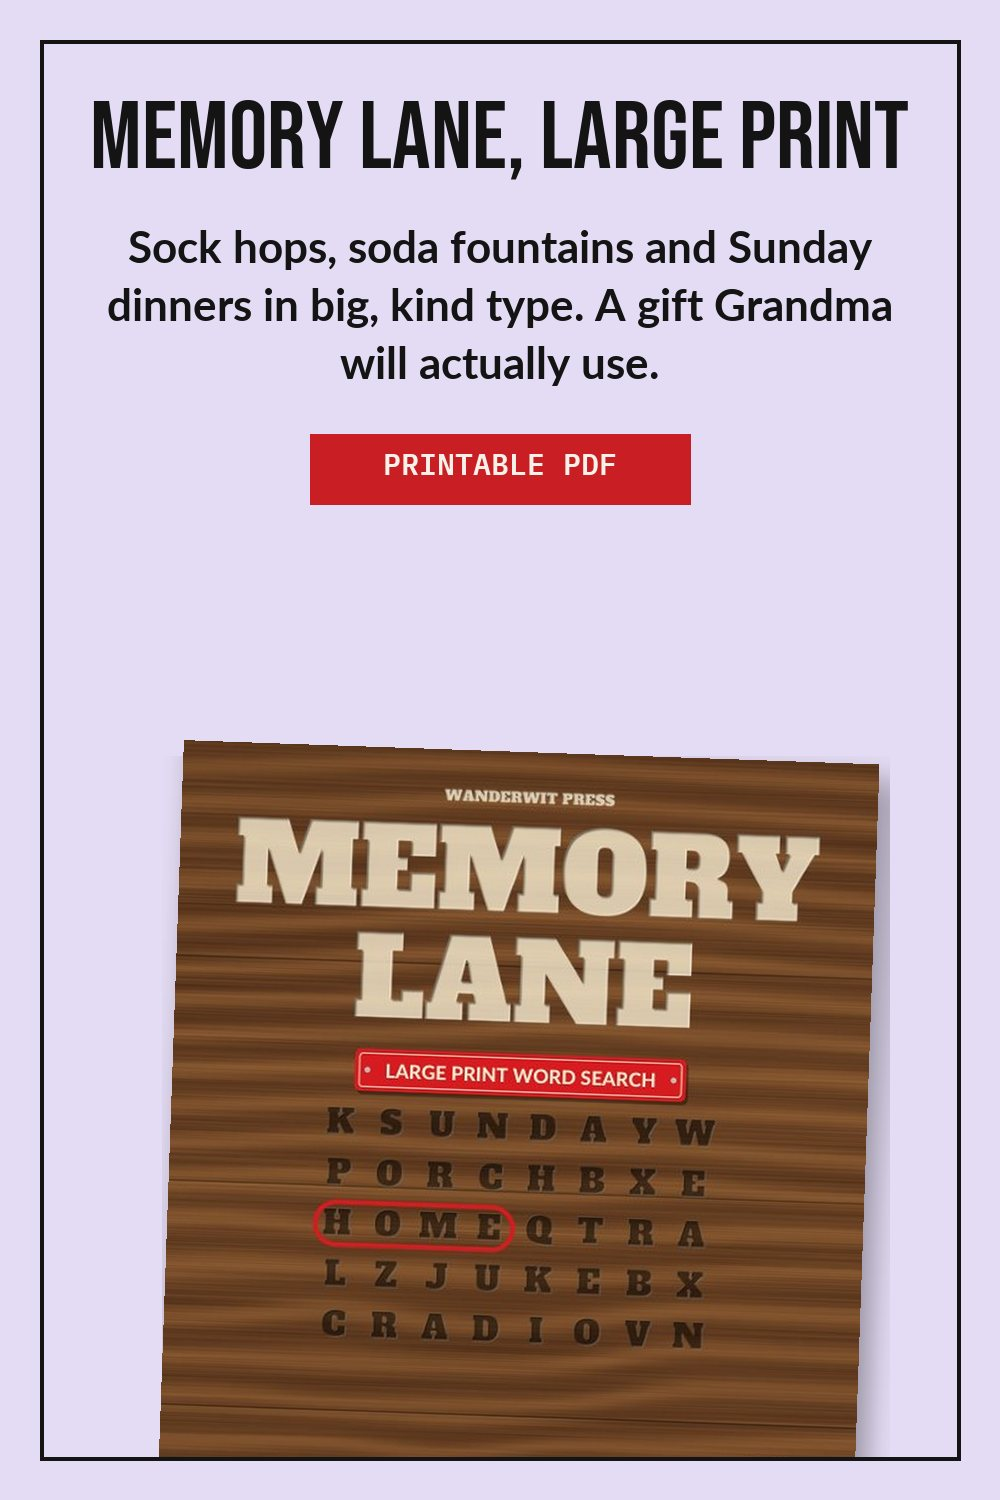
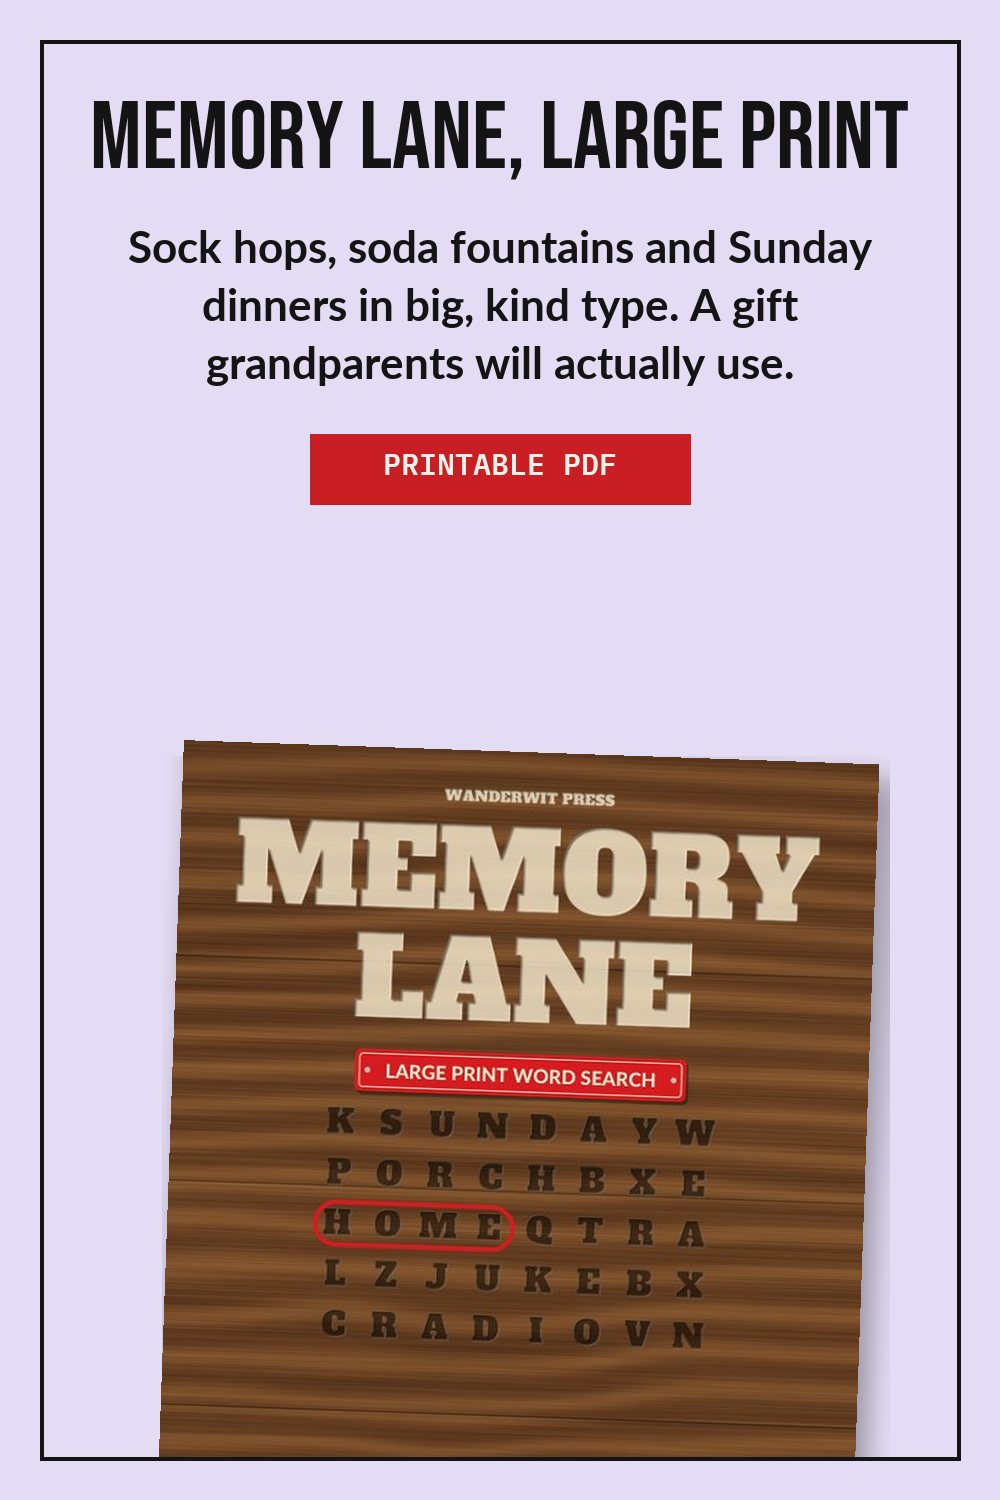
Make the site copy inclusive and add the Everything Bundle
The tagline, meta description and hero no longer address only women, and
they now describe the current catalog (planners, party games, budget
sheets, puzzles). The look and colors are unchanged.

Adds the $29.99 Everything Bundle (110 printables and spreadsheets,
Etsy 4604615285) as a best-value card, plus its three pin images.

Changed region(s): [[0.093, 0.184, 0.899, 0.276]]

diff --git a/index.html b/index.html
@@ -4,10 +4,10 @@
   <meta charset="utf-8">
   <meta name="viewport" content="width=device-width, initial-scale=1">
   <meta name="p:domain_verify" content="be809e9b2cc72f6bb1ba43bef9f699d4"/>
-  <title>Wanderwit Press · Brain Candy for Girls Who Annotate</title>
-  <meta name="description" content="Printable puzzles, large print word searches, mandala coloring, 369 manifestation journals and National Parks maps. Instant PDF downloads from Wanderwit Press.">
-  <meta property="og:title" content="Wanderwit Press · brain candy for girls who annotate">
-  <meta property="og:description" content="Puzzles, journals and maps for your cozy era, your road trip era and your manifesting era. Instant download.">
+  <title>Wanderwit Press · Printables for Planners, Party Hosts and Puzzle People</title>
+  <meta name="description" content="150+ printable planners, party and holiday games, budget spreadsheets, kids activity packs, puzzles and wall art. Instant PDF and Excel downloads from Wanderwit Press.">
+  <meta property="og:title" content="Wanderwit Press · printables for planners, party hosts and puzzle people">
+  <meta property="og:description" content="Planners, party games, budget sheets and puzzles for game night, the holidays and every fresh start. Instant download.">
   <meta property="og:image" content="assets/img/parks-map.jpg">
   <meta name="theme-color" content="#17141d">
   <link rel="icon" href="assets/favicon.svg" type="image/svg+xml">
@@ -45,16 +45,16 @@
   <section class="hero">
     <div class="wrap hero-grid">
       <div class="intro">
-        <span class="chapter"><b>[ch. 01]</b> hello, book girl</span>
-        <h1>Brain candy for girls who <em><span class="hl">annotate.</span></em></h1>
-        <p class="lede">Puzzles, journals and maps for your cozy era, your road trip era and your manifesting era. Download it today, print it tonight, tab it forever.</p>
+        <span class="chapter"><b>[ch. 01]</b> hello, fellow planner</span>
+        <h1>Brain candy for people who <em><span class="hl">plan ahead.</span></em></h1>
+        <p class="lede">Planners, party games, budget sheets and puzzles for game night, the holidays, the road trip and every fresh start. Download it today, print it tonight, use it forever.</p>
         <div class="hero-actions">
           <a class="btn btn-dark" href="#shop">shop the printables <span class="arrow">→</span></a>
           <a class="btn btn-line" href="#era">which era are you?</a>
         </div>
         <span class="note"><svg viewBox="0 0 60 40" fill="none" stroke="currentColor" stroke-width="2" stroke-linecap="round"><path d="M56 30C42 32 20 26 10 8"/><path d="M8 18 10 8l10 3"/></svg>yes, the answer keys are included</span>
         <div class="stats">
-          <div><strong>14</strong><span>original books</span></div>
+          <div><strong>150+</strong><span>printables</span></div>
           <div><strong>1,000+</strong><span>printable pages</span></div>
           <div><strong>0</strong><span>backwards words*</span></div>
         </div>
@@ -62,7 +62,7 @@
       <div class="collage intro intro-2" aria-hidden="true">
         <figure class="polaroid p1"><span class="tape pink"></span><img src="assets/img/cover-mandala-calm-coloring-vol2.jpg" alt=""><figcaption>cozy era</figcaption></figure>
         <figure class="polaroid p2"><span class="tape"></span><img src="assets/img/cover-manifest-it-369.jpg" alt=""><figcaption>manifesting ✦</figcaption></figure>
-        <figure class="polaroid p3"><span class="tape sage"></span><img src="assets/img/cover-national-parks-passport-journal.jpg" alt=""><figcaption>trail girl</figcaption></figure>
+        <figure class="polaroid p3"><span class="tape sage"></span><img src="assets/img/cover-national-parks-passport-journal.jpg" alt=""><figcaption>trail era</figcaption></figure>
         <div class="sticky"><small>currently obsessed:</small>100 mandalas + a playlist + gel pens</div>
         <svg class="spin" viewBox="0 0 120 120"><defs><path id="circ" d="M60,60 m-46,0 a46,46 0 1,1 92,0 a46,46 0 1,1 -92,0"/></defs><text><textPath href="#circ">instant download • print tonight • </textPath></text></svg>
         <span class="spin-dot">↓</span>
@@ -70,7 +70,7 @@
     </div>
   </section>
 
-  <div class="ribbon" aria-hidden="true"><div class="track"><span>puzzle girl summer</span><span>cozy reading nook</span><span>manifesting era</span><span>large print for grandma</span><span>63 parks bucket list</span><span>annotate everything</span><span>puzzle girl summer</span><span>cozy reading nook</span><span>manifesting era</span><span>large print for grandma</span><span>63 parks bucket list</span><span>annotate everything</span><span>puzzle girl summer</span><span>cozy reading nook</span><span>manifesting era</span><span>large print for grandma</span><span>63 parks bucket list</span><span>annotate everything</span><span>puzzle girl summer</span><span>cozy reading nook</span><span>manifesting era</span><span>large print for grandma</span><span>63 parks bucket list</span><span>annotate everything</span></div></div>
+  <div class="ribbon" aria-hidden="true"><div class="track"><span>puzzle people</span><span>party hosts</span><span>planner nerds</span><span>large print for grandparents</span><span>game night crew</span><span>budget glow-up</span><span>63 parks bucket list</span><span>annotate everything</span><span>puzzle people</span><span>party hosts</span><span>planner nerds</span><span>large print for grandparents</span><span>game night crew</span><span>budget glow-up</span><span>63 parks bucket list</span><span>annotate everything</span><span>puzzle people</span><span>party hosts</span><span>planner nerds</span><span>large print for grandparents</span><span>game night crew</span><span>budget glow-up</span><span>63 parks bucket list</span><span>annotate everything</span><span>puzzle people</span><span>party hosts</span><span>planner nerds</span><span>large print for grandparents</span><span>game night crew</span><span>budget glow-up</span><span>63 parks bucket list</span><span>annotate everything</span></div></div>
 
   <section id="era">
     <div class="wrap">
@@ -87,7 +87,7 @@
             <div class="opts">
               <button class="opt" data-q="who" data-a="me" aria-pressed="false">me, obviously</button>
               <button class="opt" data-q="who" data-a="kids" aria-pressed="false">my backseat gremlins</button>
-              <button class="opt" data-q="who" data-a="grandma" aria-pressed="false">my grandma</button>
+              <button class="opt" data-q="who" data-a="grandma" aria-pressed="false">my grandparents</button>
               <button class="opt" data-q="who" data-a="gift" aria-pressed="false">a bestie gift</button>
             </div>
           </div>
@@ -199,7 +199,7 @@
         <div class="body">
           <span class="meta">2 books · 80 puzzles · no backwards words</span>
           <h3>Memory Lane, Large Print</h3>
-          <p class="desc">Sock hops, soda fountains and Sunday dinners in big, kind type. A gift Grandma will actually use.</p>
+          <p class="desc">Sock hops, soda fountains and Sunday dinners in big, kind type. A gift grandparents will actually use.</p>
           <div class="buy">
             <span class="price">$8.99<small>usd</small></span>
             <a class="btn btn-dark btn-sm" href="https://www.etsy.com/listing/4603287293" target="_blank" rel="noopener">get it <span class="arrow">↗</span></a>
@@ -355,10 +355,22 @@
         <div class="body">
           <span class="meta">made to order · 24 hr · choose your edition</span>
           <h3>The Personalized 369 Journal</h3>
-          <p class="desc">Her name on the cover and title page, made within 24 hours. The gift that gets a reaction video.</p>
+          <p class="desc">Their name on the cover and title page, made within 24 hours. The gift that gets a reaction video.</p>
           <div class="buy">
             <span class="price">$12.99<small>usd</small></span>
             <a class="btn btn-dark btn-sm" href="https://www.etsy.com/listing/4603314034" target="_blank" rel="noopener">get it <span class="arrow">↗</span></a>
+          </div>
+        </div>
+      </article>
+      <article class="product reveal" data-collection="plan" id="everything-bundle">
+        <div class="art duo" style="--tint:#efe7d6" role="img" aria-label="The Everything Bundle cover"><img src="assets/img/bundle-everything-bundle-1.jpg" alt="" loading="lazy" width="560" height="840"><img src="assets/img/bundle-everything-bundle-2.jpg" alt="" loading="lazy" width="560" height="840"></div><span class="flag">best value</span>
+        <div class="body">
+          <span class="meta">110 printables + sheets · save 95%</span>
+          <h3>The Everything Bundle</h3>
+          <p class="desc">Every printable and spreadsheet in the shop: holidays, parties, planners, kids and budgets, in 5 ZIPs.</p>
+          <div class="buy">
+            <span class="price">$29.99<small>usd</small></span>
+            <a class="btn btn-dark btn-sm" href="https://www.etsy.com/listing/4604615285" target="_blank" rel="noopener">get it <span class="arrow">↗</span></a>
           </div>
         </div>
       </article>
@@ -1994,7 +2006,7 @@
   <section id="shelf" style="padding-top:30px">
     <div class="wrap">
       <div class="head reveal">
-        <div><span class="chapter"><b>[ch. 06]</b> for the physical-copy girlies</span><h2>Paperbacks, <em>coming soon</em></h2></div>
+        <div><span class="chapter"><b>[ch. 06]</b> for the physical-copy crowd</span><h2>Paperbacks, <em>coming soon</em></h2></div>
         <p>Every series is headed to Amazon in print, with matte covers and bright white pages. Collect the set and display it proudly.</p>
       </div>
       <div class="shelf reveal"><img src="assets/img/cover-memory-lane-word-search.jpg" alt="" loading="lazy" width="560" height="840"><img src="assets/img/cover-road-trip-mazes.jpg" alt="" loading="lazy" width="560" height="840"><img src="assets/img/cover-road-trip-activity-book.jpg" alt="" loading="lazy" width="560" height="840"><img src="assets/img/cover-i-spy-spot-the-difference.jpg" alt="" loading="lazy" width="560" height="840"><img src="assets/img/cover-mandala-calm-coloring.jpg" alt="" loading="lazy" width="560" height="840"><img src="assets/img/cover-manifest-it-369.jpg" alt="" loading="lazy" width="560" height="840"><img src="assets/img/cover-national-parks-passport-journal.jpg" alt="" loading="lazy" width="560" height="840"></div>
@@ -2041,7 +2053,7 @@
 <footer>
   <div class="wrap">
     <div class="foot">
-      <div><p style="max-width:32ch">Brain candy for girls who annotate. Puzzles, journals and maps for every era.</p></div>
+      <div><p style="max-width:32ch">Brain candy for people who plan ahead. Planners, party games, budget sheets and puzzles for every era.</p></div>
       <div><h4>// shop</h4><ul><li><a href="#shop" data-go="kids">kids</a></li><li><a href="#shop" data-go="seniors">large print</a></li><li><a href="#shop" data-go="mindful">cozy + manifest</a></li><li><a href="#shop" data-go="explore">explorers</a></li></ul></div>
       <div><h4>// free</h4><ul><li><a href="#free">road trip fun pack</a></li><li><a href="#free">holiday sampler</a></li><li><a href="#era">find your era quiz</a></li></ul></div>
       <div><h4>// elsewhere</h4><ul><li><a href="https://www.etsy.com/shop/WanderwitPress" target="_blank" rel="noopener">etsy shop</a></li><li><a href="#shelf">amazon paperbacks</a></li></ul></div>
@@ -2051,7 +2063,7 @@
   </div>
 </footer>
 
-<script>window.WANDERWIT_ERAS = {"parks-map": {"era": "your main-character road trip era", "title": "The 63 Parks Map", "why": "You romanticize the open road. Pin it, frame it, and color in every park you conquer.", "img": "assets/img/parks-map.jpg", "url": "https://www.etsy.com/listing/4603284283"}, "road-trip-kit": {"era": "your cool-mom-in-the-front-seat era", "title": "Road Trip Survival Kit", "why": "Four whole activity books. Print a few pages per stop and watch the miles disappear.", "img": "assets/img/cover-road-trip-activity-book.jpg", "url": "https://www.etsy.com/listing/4603285223"}, "memory-lane": {"era": "your favorite-grandkid era", "title": "Memory Lane, Large Print", "why": "Big letters, nostalgic themes and zero backwards words. It's the thoughtful gift.", "img": "assets/img/cover-memory-lane-word-search.jpg", "url": "https://www.etsy.com/listing/4603287293"}, "mandala": {"era": "your cozy candle-lit era", "title": "Mandala Calm", "why": "Tea, gel pens, a comfort show. One hundred mandalas for your slow nights in.", "img": "assets/img/cover-mandala-calm-coloring.jpg", "url": "https://www.etsy.com/listing/4603288135"}, "manifest-369": {"era": "your it-girl manifesting era", "title": "369: The Manifestation Journal", "why": "You already know what you want. Three, six, nine times a day for 33 days. Let's go.", "img": "assets/img/cover-manifest-it-369.jpg", "url": "https://www.etsy.com/listing/4603311372"}, "parks-journal": {"era": "your no-signal trail girl era", "title": "National Parks Field Journal", "why": "Trail mix, hiking boots, zero bars. A page for every park you'll ever stamp.", "img": "assets/img/cover-national-parks-passport-journal.jpg", "url": "https://www.etsy.com/listing/4603312382"}, "reading-journal": {"era": "your annotate-everything era", "title": "The Reading Journal", "why": "Fifty review pages, reading bingo and a shelf to color in. Your TBR finally has a home.", "img": "assets/img/cover-reading-journal.jpg", "url": "https://www.etsy.com/listing/4603453406"}, "paycheck-budget": {"era": "your main-character-with-a-savings-account era", "title": "Paycheck Budget Spreadsheet", "why": "Every paycheck gets a job, every month fills itself in. Rich-girl budgeting, minus the stress.", "img": "assets/img/cover-paycheck-budget.jpg", "url": "https://www.etsy.com/listing/4603456452"}, "personalized": {"era": "your best-gift-giver era", "title": "The Personalized 369 Journal", "why": "Their name, printed on a journal made just for them. Instant best-friend status.", "img": "assets/img/cover-manifest-it-369.jpg", "url": "https://www.etsy.com/listing/4603314034"}};</script>
+<script>window.WANDERWIT_ERAS = {"parks-map": {"era": "your main-character road trip era", "title": "The 63 Parks Map", "why": "You romanticize the open road. Pin it, frame it, and color in every park you conquer.", "img": "assets/img/parks-map.jpg", "url": "https://www.etsy.com/listing/4603284283"}, "road-trip-kit": {"era": "your cool-parent-in-the-front-seat era", "title": "Road Trip Survival Kit", "why": "Four whole activity books. Print a few pages per stop and watch the miles disappear.", "img": "assets/img/cover-road-trip-activity-book.jpg", "url": "https://www.etsy.com/listing/4603285223"}, "memory-lane": {"era": "your favorite-grandkid era", "title": "Memory Lane, Large Print", "why": "Big letters, nostalgic themes and zero backwards words. It's the thoughtful gift.", "img": "assets/img/cover-memory-lane-word-search.jpg", "url": "https://www.etsy.com/listing/4603287293"}, "mandala": {"era": "your cozy candle-lit era", "title": "Mandala Calm", "why": "Tea, gel pens, a comfort show. One hundred mandalas for your slow nights in.", "img": "assets/img/cover-mandala-calm-coloring.jpg", "url": "https://www.etsy.com/listing/4603288135"}, "manifest-369": {"era": "your main-character manifesting era", "title": "369: The Manifestation Journal", "why": "You already know what you want. Three, six, nine times a day for 33 days. Let's go.", "img": "assets/img/cover-manifest-it-369.jpg", "url": "https://www.etsy.com/listing/4603311372"}, "parks-journal": {"era": "your no-signal trail era", "title": "National Parks Field Journal", "why": "Trail mix, hiking boots, zero bars. A page for every park you'll ever stamp.", "img": "assets/img/cover-national-parks-passport-journal.jpg", "url": "https://www.etsy.com/listing/4603312382"}, "reading-journal": {"era": "your annotate-everything era", "title": "The Reading Journal", "why": "Fifty review pages, reading bingo and a shelf to color in. Your TBR finally has a home.", "img": "assets/img/cover-reading-journal.jpg", "url": "https://www.etsy.com/listing/4603453406"}, "paycheck-budget": {"era": "your main-character-with-a-savings-account era", "title": "Paycheck Budget Spreadsheet", "why": "Every paycheck gets a job, every month fills itself in. Grown-up budgeting, minus the stress.", "img": "assets/img/cover-paycheck-budget.jpg", "url": "https://www.etsy.com/listing/4603456452"}, "personalized": {"era": "your best-gift-giver era", "title": "The Personalized 369 Journal", "why": "Their name, printed on a journal made just for them. Instant best-friend status.", "img": "assets/img/cover-manifest-it-369.jpg", "url": "https://www.etsy.com/listing/4603314034"}};</script>
 <script src="app.js" defer></script>
 </body>
 </html>
